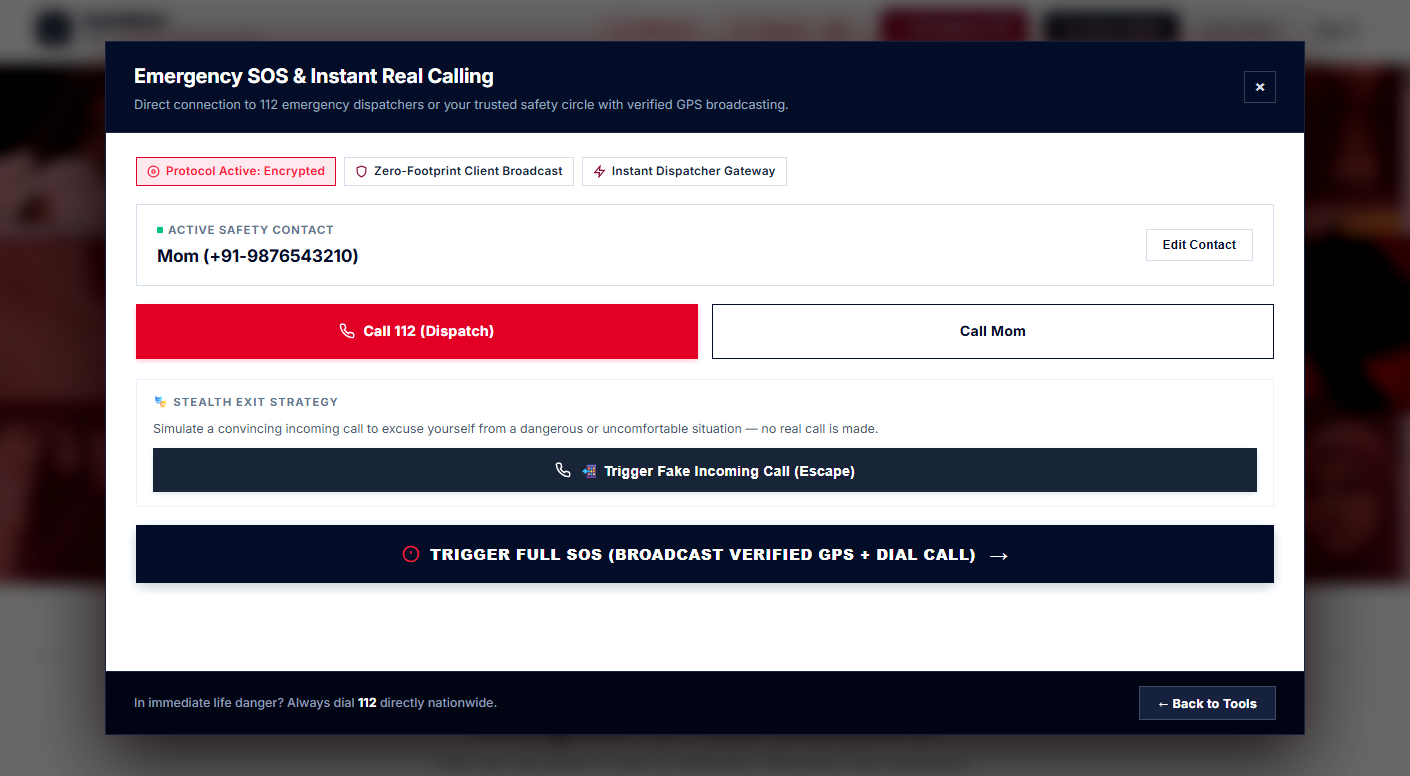
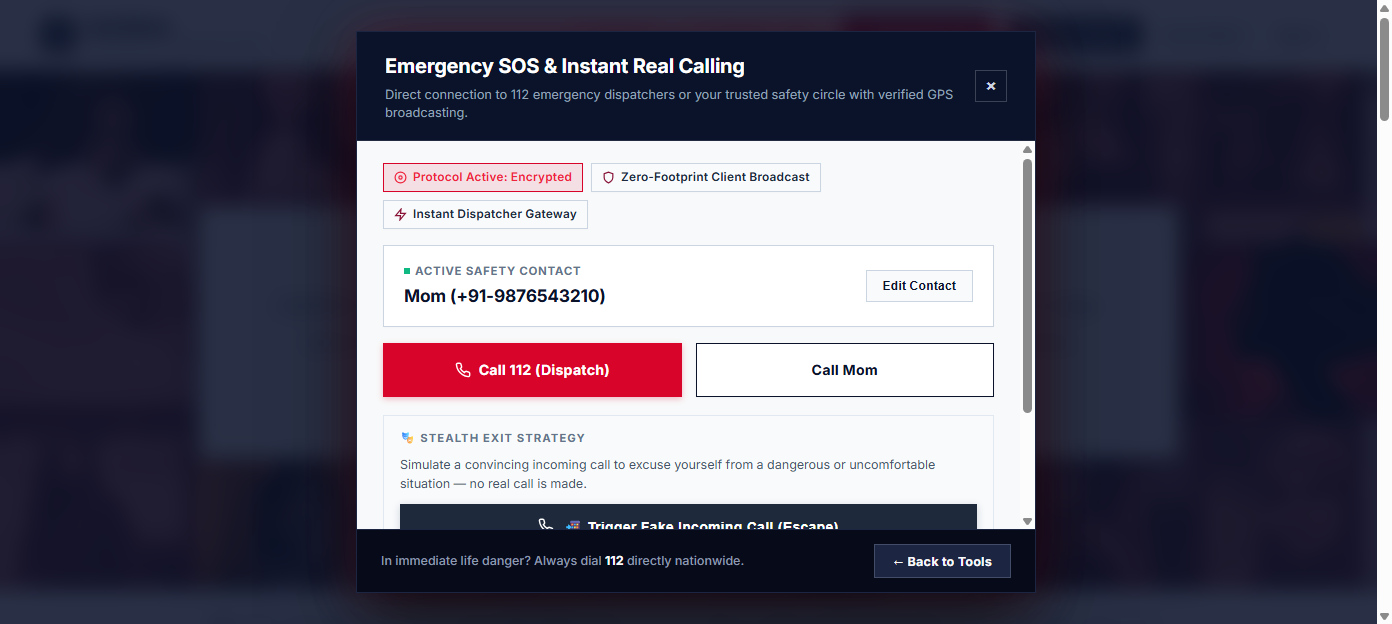
fix(sos): fix modal DOM nesting and responsive centering on desktop and mobile

diff --git a/frontend/style.css b/frontend/style.css
@@ -6869,3 +6869,104 @@ body.modal-open .emergency-quick-dock,
   animation-duration: 0.75s;
   animation-delay: 0.25s;
 }
+
+/* ==========================================================================
+   Emergency SOS Modal Centering & Responsive Display Refinements
+   ========================================================================== */
+#sosModal.modal-overlay {
+  display: none;
+  position: fixed;
+  inset: 0;
+  width: 100vw;
+  height: 100vh;
+  height: 100dvh;
+  background: rgba(11, 19, 43, 0.88);
+  backdrop-filter: blur(10px);
+  -webkit-backdrop-filter: blur(10px);
+  z-index: 99996 !important;
+  align-items: center !important;
+  justify-content: center !important;
+  padding: 20px;
+  box-sizing: border-box;
+}
+
+#sosModal.modal-overlay.active {
+  display: flex !important;
+}
+
+#sosModal .workspace-modal-card {
+  width: 100% !important;
+  max-width: 680px !important;
+  height: auto !important;
+  max-height: 90vh !important;
+  max-height: 90dvh !important;
+  background: #ffffff !important;
+  border: 1.5px solid #1C2541 !important;
+  border-radius: 0px !important;
+  box-shadow: 0 25px 70px rgba(0, 0, 0, 0.75), 0 0 45px rgba(217, 4, 41, 0.22) !important;
+  display: flex !important;
+  flex-direction: column !important;
+  margin: auto !important;
+  overflow: hidden !important;
+  box-sizing: border-box;
+}
+
+#sosModal .workspace-modal-body {
+  flex: 1 1 auto !important;
+  overflow-y: auto !important;
+  -webkit-overflow-scrolling: touch !important;
+  padding: 22px 26px !important;
+  display: flex !important;
+  flex-direction: column !important;
+  gap: 16px !important;
+}
+
+#sosModal .workspace-modal-footer {
+  flex-shrink: 0 !important;
+  display: flex !important;
+  justify-content: space-between !important;
+  align-items: center !important;
+  background: #070B19 !important;
+  border-top: 1px solid #1C2541 !important;
+  padding: 14px 24px !important;
+}
+
+@media (max-width: 768px) {
+  #sosModal.modal-overlay {
+    padding: 0 !important;
+    align-items: flex-end !important;
+    justify-content: center !important;
+  }
+
+  #sosModal .workspace-modal-card {
+    width: 100vw !important;
+    max-width: 100vw !important;
+    height: 100% !important;
+    max-height: 100vh !important;
+    height: 100dvh !important;
+    margin: 0 !important;
+    border: none !important;
+    border-radius: 0 !important;
+    box-shadow: none !important;
+  }
+
+  #sosModal .workspace-modal-header {
+    padding: 14px 16px !important;
+  }
+
+  #sosModal .workspace-modal-body {
+    padding: 16px 14px 30px 14px !important;
+    gap: 14px !important;
+  }
+
+  #sosModal .workspace-modal-footer {
+    padding: 12px 16px !important;
+    flex-direction: column-reverse !important;
+    gap: 10px !important;
+  }
+
+  #sosModal .workspace-modal-footer .btn-outline {
+    width: 100% !important;
+    min-height: 44px !important;
+  }
+}

diff --git a/frontend/index.html b/frontend/index.html
@@ -9,7 +9,7 @@
   <link rel="preconnect" href="https://fonts.googleapis.com">
   <link rel="preconnect" href="https://fonts.gstatic.com" crossorigin>
   <link href="https://fonts.googleapis.com/css2?family=Alice&family=Karma:wght@400;500;600;700&family=Inter:wght@300;400;500;600;700;800;900&display=swap" rel="stylesheet">
-  <link rel="stylesheet" href="style.css?v=20261028_04">
+  <link rel="stylesheet" href="style.css?v=20261030_02">
   <!-- MapLibre GL JS for real OpenStreetMap Interactive Maps -->
   <link rel="stylesheet" href="https://unpkg.com/maplibre-gl@3.6.2/dist/maplibre-gl.css">
   <script src="https://unpkg.com/maplibre-gl@3.6.2/dist/maplibre-gl.js"></script>
@@ -671,8 +671,6 @@
             <svg style="width: 16px; height: 16px; color: #0B132B;" viewBox="0 0 24 24" fill="none" stroke="currentColor" stroke-width="2.2"><path d="M17 21v-2a4 4 0 0 0-4-4H5a4 4 0 0 0-4 4v2"/><circle cx="9" cy="7" r="4"/><path d="M23 21v-2a4 4 0 0 0-3-3.87"/><path d="M16 3.13a4 4 0 0 1 0 7.75"/></svg>
             Call Saved Contact
           </a>
-        </div>
-
         </div>
 
         <!-- Fake Escape Call Simulator — Stealth Exit Strategy -->
